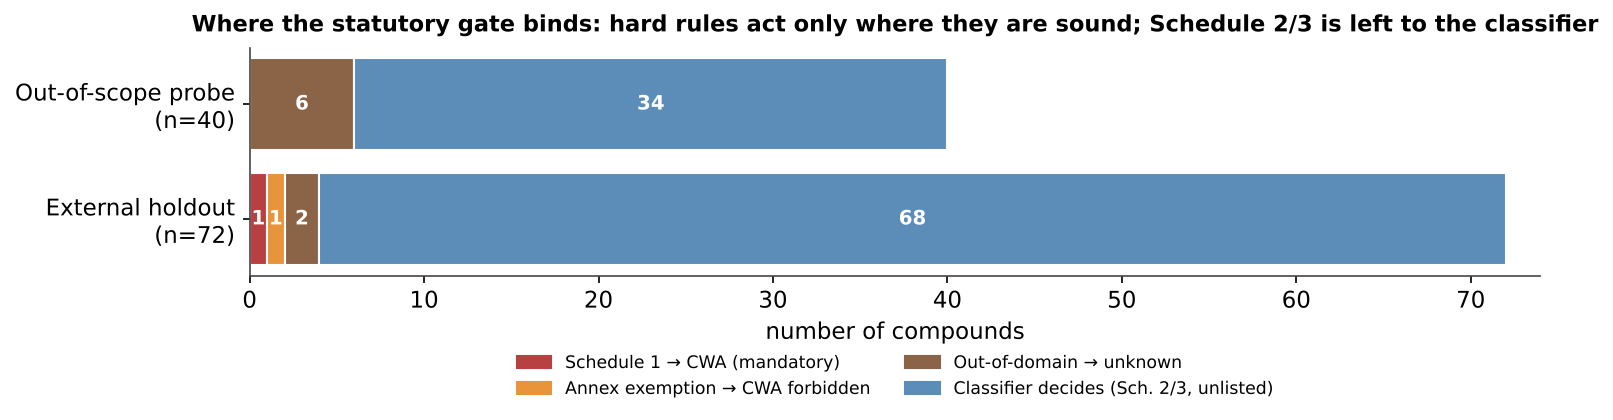
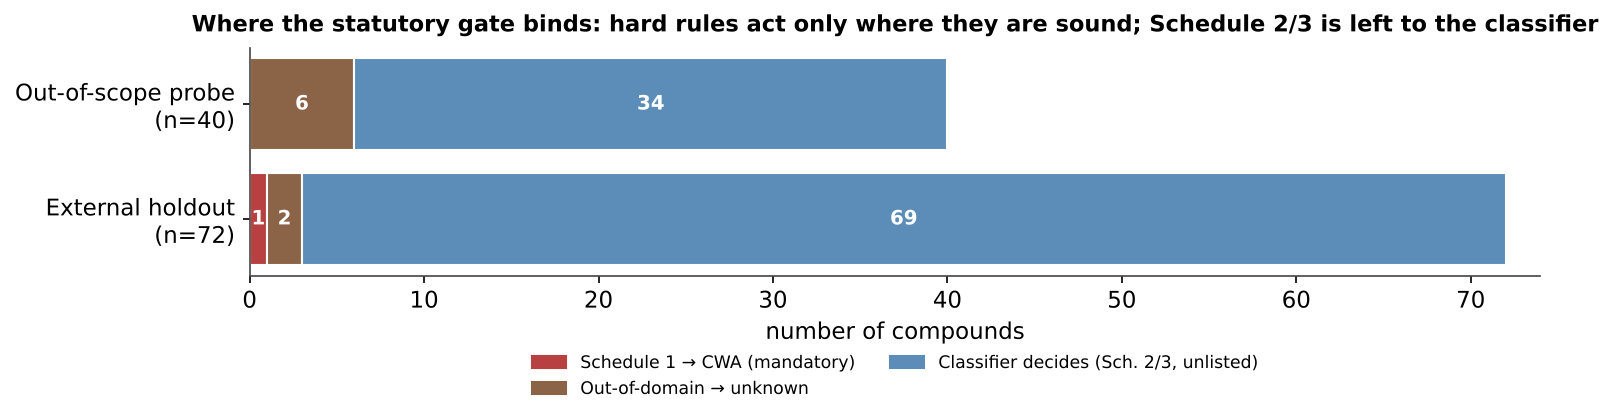
Fix gate branch accounting in figures and tables
The provenance counter credited the Annex-exemption branch on the exemption
flag alone, while apply_gate() binds it only when the classifier would
otherwise return the regulated class. No classifier did, so the exemption
count is 0 and the classifier branch is 69, not 68. Benchmark metrics are
unaffected.

Claude-Session: https://claude.ai/code/session_015KyARiniznsBXimrwprTKx

Changed region(s): [[0.31, 0.8357, 0.806, 0.9595], [0.155, 0.4024, 0.217, 0.65], [0.527, 0.4952, 0.589, 0.5571]]

diff --git a/scripts/05_figs_tables_gateA.py b/scripts/05_figs_tables_gateA.py
@@ -22,29 +22,65 @@ plt.rcParams.update({"font.size": 11, "font.family": "DejaVu Sans",
 
 hold = pd.read_csv(BUILD / "holdout.csv"); probe = pd.read_csv(BUILD / "probe.csv")
 
-def provenance(df, dist, thr):
-    """Classify each compound by which gate branch decides it."""
+BRANCHES = ("Out-of-scope skeleton → unknown",
+            "Schedule 1 → CWA (mandatory)",
+            "Annex exemption → CWA forbidden",
+            "Out-of-domain → unknown",
+            "Classifier decides (Sch. 2/3, unlisted)")
+
+
+def provenance(df, dist, thr, ml_pred):
+    """Classify each compound by which gate branch decides it.
+
+    The branch order and conditions mirror G.apply_gate() exactly, including
+    the exemption branch, which binds only where the classifier would
+    otherwise have returned the regulated class; counting it on the exemption
+    flag alone overstates how often statutory authority actually acts.
+    """
     s = df["cwc_schedule"].values
-    ex = (df["cwc_exempt"].astype(str).str.len() > 0).values if "cwc_exempt" in df else np.zeros(len(df), bool)
-    cnt = {"Schedule 1 → CWA (mandatory)": 0, "Annex exemption → CWA forbidden": 0,
-           "Out-of-domain → unknown": 0, "Classifier decides (Sch. 2/3, unlisted)": 0}
+    smi = df["smiles"].values
+    ex = (df["cwc_exempt"].astype(str).str.len() > 0).values if "cwc_exempt" in df \
+        else np.zeros(len(df), bool)
+    cnt = {b: 0 for b in BRANCHES}
     for i in range(len(df)):
-        if s[i] == 1: cnt["Schedule 1 → CWA (mandatory)"] += 1
-        elif ex[i]: cnt["Annex exemption → CWA forbidden"] += 1
-        elif s[i] == 0 and dist[i] > thr: cnt["Out-of-domain → unknown"] += 1
-        else: cnt["Classifier decides (Sch. 2/3, unlisted)"] += 1
+        if G.a3_out_of_scope(smi[i]):
+            cnt["Out-of-scope skeleton → unknown"] += 1
+        elif s[i] == 1:
+            cnt["Schedule 1 → CWA (mandatory)"] += 1
+        elif ex[i] and ml_pred[i] == G.CWA:
+            cnt["Annex exemption → CWA forbidden"] += 1
+        elif s[i] == 0 and dist[i] > thr:
+            cnt["Out-of-domain → unknown"] += 1
+        else:
+            cnt["Classifier decides (Sch. 2/3, unlisted)"] += 1
     return cnt
+
+
+def ml_predictions(corp, df, scheme="F3", clf_name="RF"):
+    """Predictions of the reference head used for the provenance accounting."""
+    cols = G.SCHEMES[scheme]
+    clf = G.make_clf(clf_name, proba=True)
+    clf.fit(corp[cols].astype(float).values,
+            corp["label_L2"].astype(int).values)
+    return clf.predict(df[cols].astype(float).values)
 
 corp = pd.read_csv(BUILD / "corpus.csv")
 trf = [G.morgan(x) for x in corp["smiles"]]; trf = [f for f in trf if f]
 thr = G.ad_threshold(trf, 99)
 hod = [G.nn_distance(G.morgan(x), trf) for x in hold["smiles"]]
 prd = [G.nn_distance(G.morgan(x), trf) for x in probe["smiles"]]
-prov_h = provenance(hold, hod, thr); prov_p = provenance(probe, prd, thr)
+mlp_h = ml_predictions(corp, hold); mlp_p = ml_predictions(corp, probe)
+prov_h = provenance(hold, hod, thr, mlp_h)
+prov_p = provenance(probe, prd, thr, mlp_p)
 
 # ── Figure 1: decision provenance (where statutory authority binds) ─────────
-labels = list(prov_h.keys())
-cols = [P["rose"], P["amber"], P["brown"], P["dblue"]]
+labels = [b for b in BRANCHES if prov_h[b] or prov_p[b]]
+_palette = {"Out-of-scope skeleton → unknown": P["dteal"],
+            "Schedule 1 → CWA (mandatory)": P["rose"],
+            "Annex exemption → CWA forbidden": P["amber"],
+            "Out-of-domain → unknown": P["brown"],
+            "Classifier decides (Sch. 2/3, unlisted)": P["dblue"]}
+cols = [_palette[b] for b in labels]
 fig, ax = plt.subplots(figsize=(10.5, 3.2))
 for yi, (name, prov, tot) in enumerate([("External holdout\n(n=72)", prov_h, 72),
                                         ("Out-of-scope probe\n(n=40)", prov_p, 40)]):
@@ -110,7 +146,9 @@ lines += [r"\bottomrule", r"\end{tabular}"]
 # ── Table 2: where the gate binds (counts) ──────────────────────────────────
 tl = [r"\begin{tabular}{lcc}", r"\toprule",
       r"Gate branch & Holdout (n=72) & Probe (n=40) \\", r"\midrule"]
-for lab in labels:
+# every branch is listed, zero counts included: a branch that did not have to
+# act is still a guarantee the gate provides.
+for lab in BRANCHES:
     tl.append(f"{lab.replace(chr(0x2192),'$\\to$')} & {prov_h[lab]} & {prov_p[lab]} \\\\")
 tl += [r"\bottomrule", r"\end{tabular}"]
 (OUT / "table_gate_bindings.tex").write_text("\n".join(tl))

diff --git a/results/table_gate_bindings.tex b/results/table_gate_bindings.tex
@@ -2,9 +2,10 @@
 \toprule
 Gate branch & Holdout (n=72) & Probe (n=40) \\
 \midrule
+Out-of-scope skeleton $\to$ unknown & 0 & 0 \\
 Schedule 1 $\to$ CWA (mandatory) & 1 & 0 \\
-Annex exemption $\to$ CWA forbidden & 1 & 0 \\
+Annex exemption $\to$ CWA forbidden & 0 & 0 \\
 Out-of-domain $\to$ unknown & 2 & 6 \\
-Classifier decides (Sch. 2/3, unlisted) & 68 & 34 \\
+Classifier decides (Sch. 2/3, unlisted) & 69 & 34 \\
 \bottomrule
 \end{tabular}
